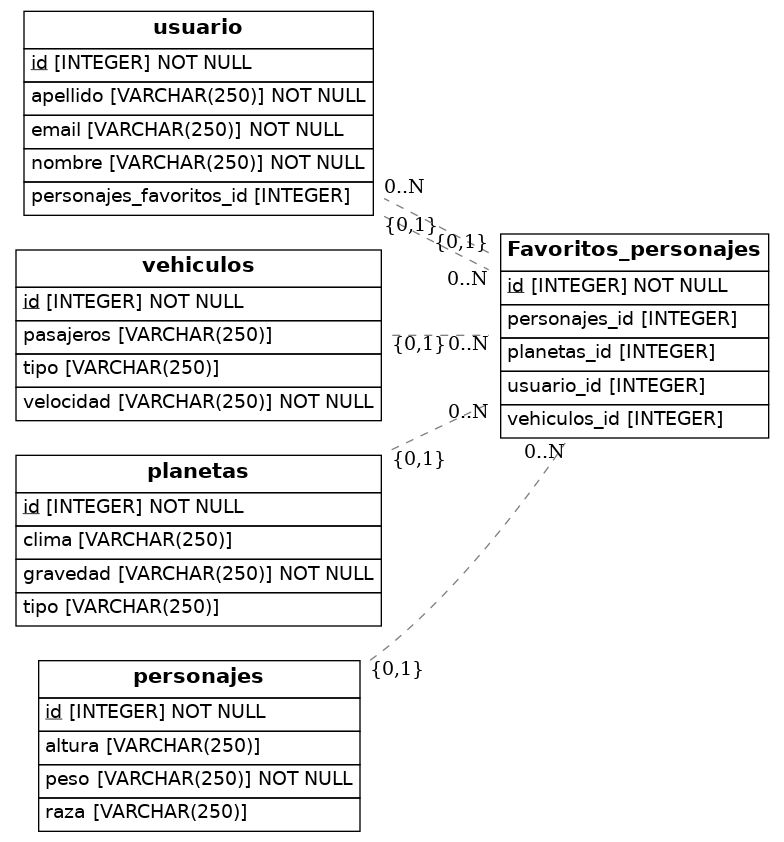
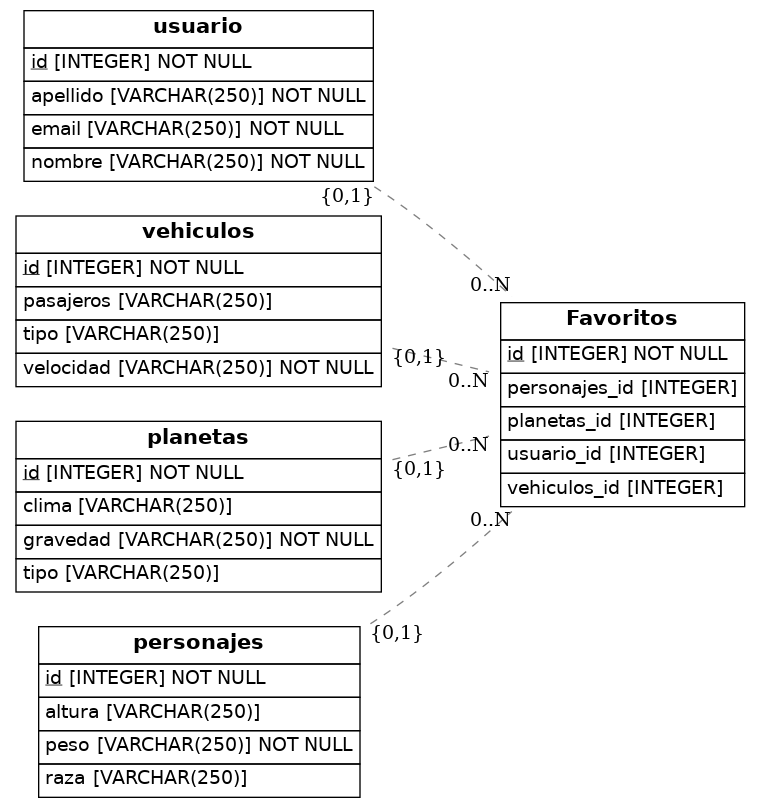
modified:   diagram.png 	modified:   src/models.py

Changed region(s): [[0.0, 0.0, 0.9987, 0.7426], [0.0303, 0.7735, 0.5447, 0.9901]]

diff --git a/src/models.py b/src/models.py
@@ -15,8 +15,8 @@ class Usuario(Base):
     nombre = Column(String(250), nullable=False)
     apellido = Column(String(250), nullable=False)
     email = Column(String(250), nullable=False)
-    personajes_favoritos = relationship("Favoritos_personajes")
-    personajes_favoritos_id = Column(Integer, ForeignKey("Favoritos_personajes.id"))
+    favoritos = relationship("Favoritos")
+   
 
 
     
@@ -55,8 +55,8 @@ class Personajes(Base):
 
 
 
-class Favoritos_personajes(Base):
-    __tablename__ = 'Favoritos_personajes'
+class Favoritos(Base):
+    __tablename__ = 'Favoritos'
     id = Column(Integer, primary_key=True)
     personajes_id = Column(Integer, ForeignKey('personajes.id'))
     usuario_id = Column(Integer, ForeignKey('usuario.id'))
